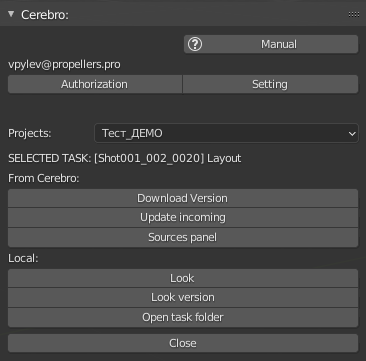
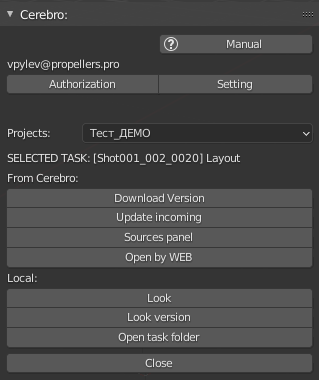
fixing, + links

diff --git a/docs/source/manual/work_panel.rst b/docs/source/manual/work_panel.rst
@@ -35,7 +35,38 @@ Update incoming
 Sources panel
 ~~~~~~~~~~~~~
 
-:guilabel:`Sources panel` - Открытие панели с перечнем исходников активной задачи, с возможностью загрузки ``collections`` по выбору из исходников в текущий рабочий файл.
+   :guilabel:`Sources panel` - открытие панели где возможны загрузка компонентов исходников в сцену, а так же перезагрузка версий исходников.
+
+   Запускаемая панель:
+
+   .. image:: ../_static/images/source_panel.png
+
+   Столбцы панели в порядке следования слева на право: 
+
+   #. имя ассета
+   #. имя задачи
+   #. свежесть версии (*missing*, *old*, *latest*)
+   #. кнопка :guilabel:`Add`
+   #. кнопка :guilabel:`Reload version`
+
+   :guilabel:`Add` - активна только приналичии какой либо версии, откроет список коллекций файла версии и две возможности загрузки, сделать ``link`` или ``append``.
+
+   .. image:: ../_static/images/source_panel_add_panel.png
+
+
+   :guilabel:`Reload version` - откроет список версий входящей задачи на сервере с возможностью загрузки.
+
+   .. image:: ../_static/images/source_panel_reload_versio_panel.png
+
+   Клик по кнопке :guilabel:`Download` загрузит указанную версию на компьютер пользователя. Данная загрузка не локализуется текущей задачей, а будет доступна для всех задач которые ссылаются на этот исходник.
+
+
+.. _work_panel_open_last_commit_by_web:
+
+Open by WEB
+~~~~~~~~~~~
+
+:guilabel:`Open by web` - Открывает страницу задачи в вёб браузере.
 
 .. _work_panel_fix_scene:
 
@@ -85,24 +116,6 @@ Open task folder
 :guilabel:`Open task folder` - Запуск проводника в папке данной задачи.
 
 .. _work_panel_textures:
-
-
-.. _work_panel_notes:
-
-Notes:
-------
-
-Чат по задаче.
-
-`(видео) <https://disk.yandex.ru/i/yRKNPQEyOGHjIw>`_
-
-
-.. _work_panel_open_last_commit_by_web:
-
-Open by web
-~~~~~~~~~~~
-
-:guilabel:`Open by web` - Открывает страницу задачи в вёб браузере.
 
 
 Textures:
@@ -172,6 +185,10 @@ Commit
 * Если поставить галочку ``To Review`` то статус задачи изменится на *на утверждение* при этом будет выполнена процедура :ref:`work_panel_check`.
 
 .. image:: ../_static/images/commit_to_review.png
+
+* Для некоторых задач панель коммита содержит галочку ``Push to cerebro``, если её снять то версия не будет отправляться на сервер, а будет только локальной.
+
+.. image:: ../_static/images/commit_push_to_cerebro.png
 
 .. _work_panel_change_status_to_pending_review:
 

diff --git a/docs/source/manual/links_of_tasks.rst b/docs/source/manual/links_of_tasks.rst
@@ -1,0 +1,57 @@
+.. _links-of-tasks-page:
+
+Взаимосвязи задач
+===================
+
+Связи между задачами устанавливаются менеджерами проектов в деск топ клиенте серебры.
+
+Каждая связь устанавливается между двумя задачами.
+
+Для серебры все задачи идентичны, но плагин в зависимости от видов деятельности по разному обрабатывает эти связи.
+
+Связи внутри ассета
+--------------------
+
+Ассетами называем задачи с видами деятельности: **AssetModel**, **Location**, **Shot**, **Episode**
+
+Ассеты имеют дочернии задачи, которые являются пайплайн шагами по созданию данного ассета, и соответственно между этими задачами создаются последовательные связи.
+
+.. image:: ../_static/images/links_into_asset.png
+
+.. note:: Дочерние задачи ассетов не должны иметь дочерних задач.
+
+
+Связи между ассетами
+--------------------
+
+Связываются задачи с видами деятельности **AssetModel**, **Location**, **Shot**, **Episode** напрямую.
+
+Примеры связей между ассетами: 
+
+   * Пропсы с локацией
+
+   * Локация с шотом
+
+   * Персонажи с шотом.
+
+.. image:: ../_static/images/links_btw_assets.png
+
+
+Особенности для связи ассетов в плагине:
+
+* Для всех действий будет выбираться дочерняя задача ассета, которая будет определятся по виду деятельности. Поиск из списка видов деятельности в приоритете на убывание: ``layout``, ``rigging``, ``shading``, ``modelling``, ``concept``.
+
+* Данная входящая связь будет видна для всех задач ассета.
+
+
+Связи между задачами из различных ассетов
+------------------------------------------
+
+Такие связи используются в основном для подгрузки каких либо компонент из шаблонов и прочих исходников.
+
+Например: 
+
+* прототипа рига для всех персонажей.
+* создание объекта на основе другого, какой либо вариант.
+
+.. image:: ../_static/images/links_tasks.png

diff --git a/docs/source/manual/selected_panel_check.rst b/docs/source/manual/selected_panel_check.rst
@@ -32,7 +32,14 @@ Update incoming
 Sources panel
 ~~~~~~~~~~~~~
 
-:guilabel:`Sources panel` - Открытие панели с перечнем исходников активной задачи, с возможностью загрузки ``collections`` по выбору из исходников в текущий рабочий файл.
+:guilabel:`Sources panel` - открытие панели где возможны загрузка компонентов исходников в сцену, а так же перезагрузка версий исходников. Полное описание см. тут :ref:`work_panel_source_panel`
+
+.. _check_selected_panel_open_last_commit_by_web:
+
+Open by WEB
+~~~~~~~~~~~
+
+:guilabel:`Open by web` - Открывает страницу задачи в вёб браузере.
 
 
 .. _check_selected_panel_local:

diff --git a/docs/source/manual/selected_panel_work.rst b/docs/source/manual/selected_panel_work.rst
@@ -35,7 +35,14 @@ Update incoming
 Sources panel
 ~~~~~~~~~~~~~
 
-:guilabel:`Sources panel` - Открытие панели с перечнем исходников активной задачи, с возможностью загрузки ``collections`` по выбору из исходников в текущий рабочий файл.
+:guilabel:`Sources panel` - открытие панели где возможны загрузка компонентов исходников в сцену, а так же перезагрузка версий исходников. Полное описание см. тут :ref:`work_panel_source_panel`
+
+.. _selected_panel_open_last_commit_by_web:
+
+Open by WEB
+~~~~~~~~~~~
+
+:guilabel:`Open by web` - Открывает страницу задачи в вёб браузере.
 
 .. _selected_panel_local:
 

diff --git a/docs/source/index.rst b/docs/source/index.rst
@@ -25,3 +25,4 @@ Manual
    manual/task_templates
    manual/video
    manual/tech_functions
+   manual/links_of_tasks
